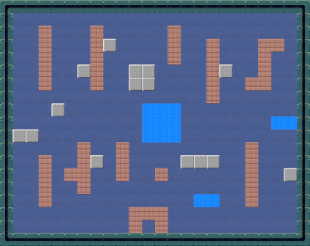
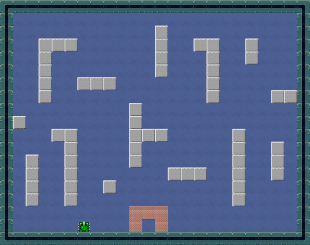
new levels

diff --git a/headers/constants.h b/headers/constants.h
@@ -19,7 +19,7 @@ constexpr int DEFAULT_RELOAD_TICKS = 100;
 constexpr int BULLET_SIZE = 10;
 
 // menu
-constexpr int LEVELS_COUNT = 1;
+constexpr int LEVELS_COUNT = 3;
 constexpr int TEXT_MARGIN = 10;
 
 }  // namespace Tanks
